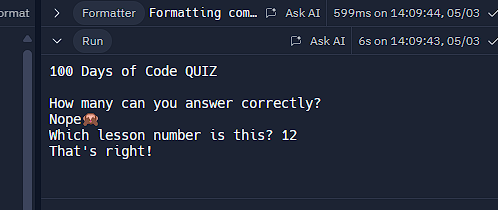
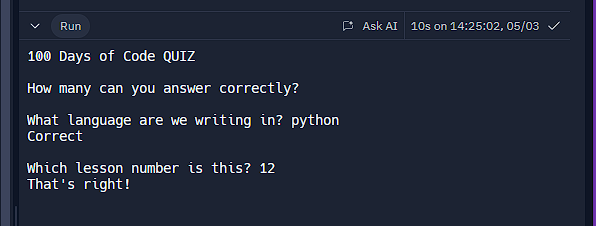
had debug the error

Changed region(s): [[0.0, 0.0, 1.0, 1.0]]

diff --git a/main.py b/main.py
@@ -1,11 +1,11 @@
 print("100 Days of Code QUIZ")
 print()
-print("How many can you answer correctly? ")
-ans1 = ("What language are we writing in? ")
+print("How many can you answer correctly? \n")
+ans1 = input("What language are we writing in? ")
 if ans1 == "python":
-  print("Correct")
+  print("Correct\n")
 else:
-  print("Nope🙈")
+  print("Nope🙈\n")
 
 ans2 = int(input("Which lesson number is this? "))
 if (ans2 > 12):
